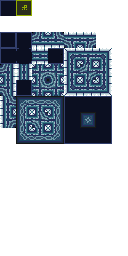
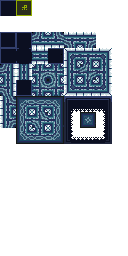
壁グラ

Changed region(s): [[0.5, 0.375, 0.875, 0.5625]]

diff --git a/src/Stage/mapData.js b/src/Stage/mapData.js
@@ -6,6 +6,7 @@ import Player from '../Entity/player.js'
 import Teki1 from '../Entity/teki1.js'
 import Goal from '../Entity/goal.js'
 import Game from '../Game.js'
+import Art from '../art.js'
 
 /*マップデータ*/
 export default class MapData{
@@ -37,14 +38,17 @@ export default class MapData{
   static async CreateStage(stageNo){
     await this.Load(stageNo);
     let tileType = this.jsonObj.tilesets[0].tileproperties;
-    cl(this.jsonObj.tilesets[0]);
+    let entity;
+    let ID;//tiledに対応漬けられているID
 
     for(let y = 0;y<this.height;y++){
       for(let x = 0;x<this.width;x++){
-        if(this.data[this.width*y + x] == 0)continue;
+        ID = this.data[this.width*y + x]-1;
+        if(ID == -1)continue;//SPACE
         switch(tileType[this.data[this.width*y + x]-1].type){
           case TILE.WALL :
-            EntityManager.addEntity(new Wall({x:16*x,y:16*y}));
+            entity = new Wall({x:16*x,y:16*y},MapData.WallTile(ID));
+            EntityManager.addEntity(entity);
             break;
           case TILE.PLAYER :
             EntityManager.addEntity(new Player({x:16*x,y:16*y}));
@@ -70,5 +74,21 @@ export default class MapData{
     }
     MapData.CreateStage(Game.stage);
   }
-
+  //壁タイルの対応
+  //タイルIDを渡すとテクスチャを返す
+  //やばい
+  static WallTile(i){
+    switch(i){
+      case 52:return Art.wallPattern[13];
+      case 53:return Art.wallPattern[14];
+      case 54:return Art.wallPattern[15];
+      case 60:return Art.wallPattern[20];
+      case 62:return Art.wallPattern[22];
+      case 68:return Art.wallPattern[27];
+      case 69:return Art.wallPattern[28];
+      case 70:return Art.wallPattern[29];
+  }
+    console.warn(i);
+    return Art.wallPattern[0];
+  }
 }

diff --git a/src/Entity/wall.js b/src/Entity/wall.js
@@ -6,10 +6,11 @@ import Box from '../Collision/box.js';
 
 
 export default class Wall extends Entity{
-  constructor(pos){
+  constructor(pos,tex){
     super(pos);
     this.type = ENTITY.WALL;
-    this.sprite = Art.SpriteFactory(Art.wallPattern[0]);
+    this.tex = tex
+    this.sprite = Art.SpriteFactory(this.tex);
     this.sprite.position = pos;
     this.collisionShape = new CollisionShape(SHAPE.BOX,new Box(pos,16,16));//衝突判定の形状
   }
